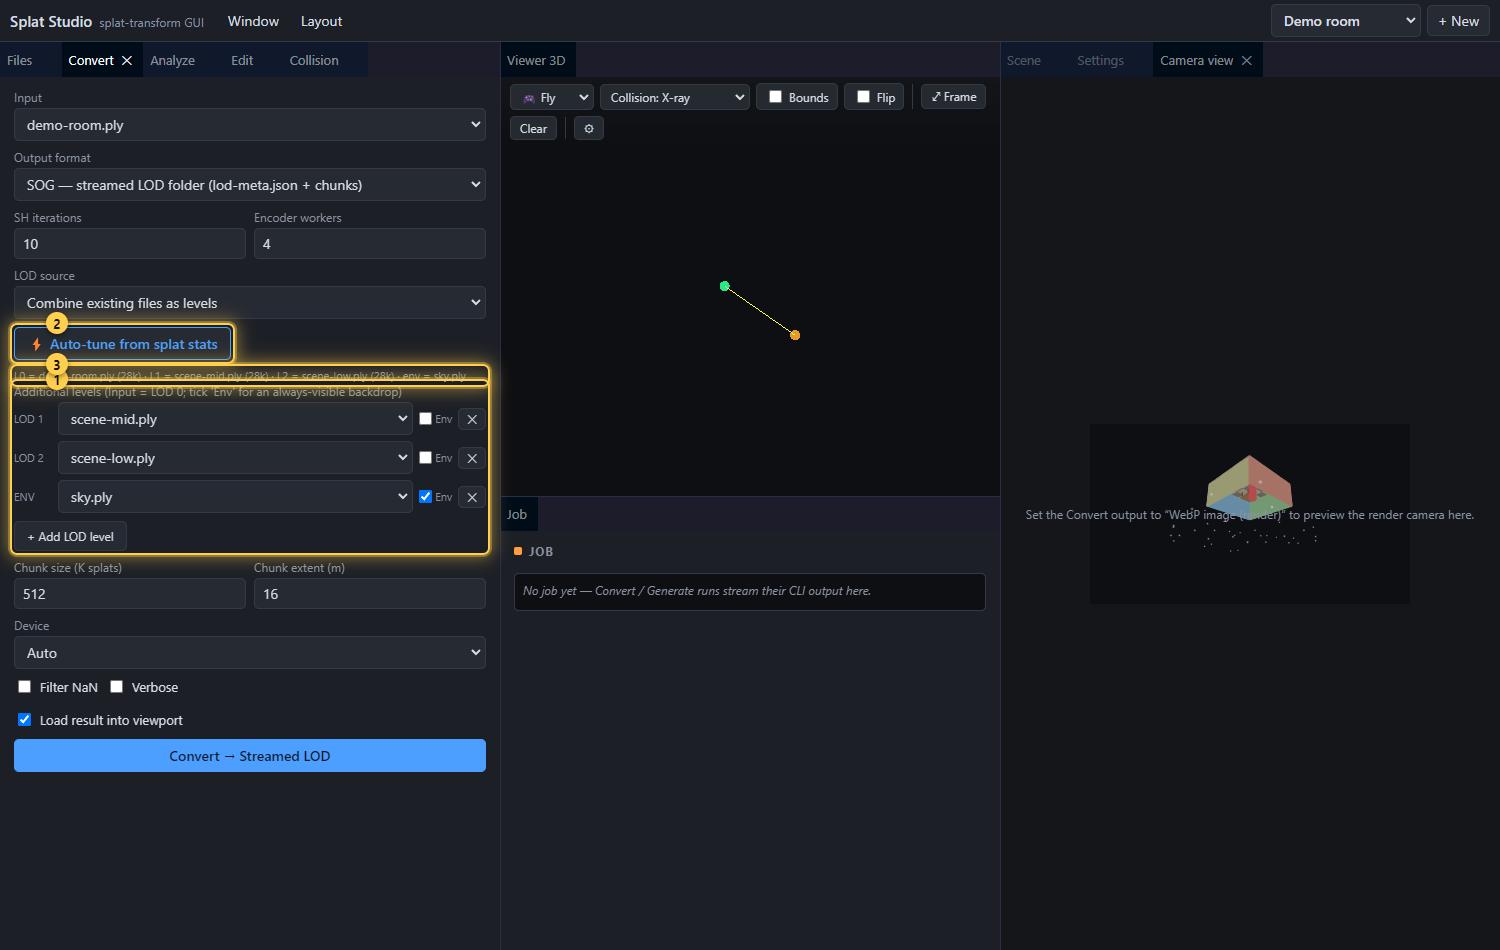
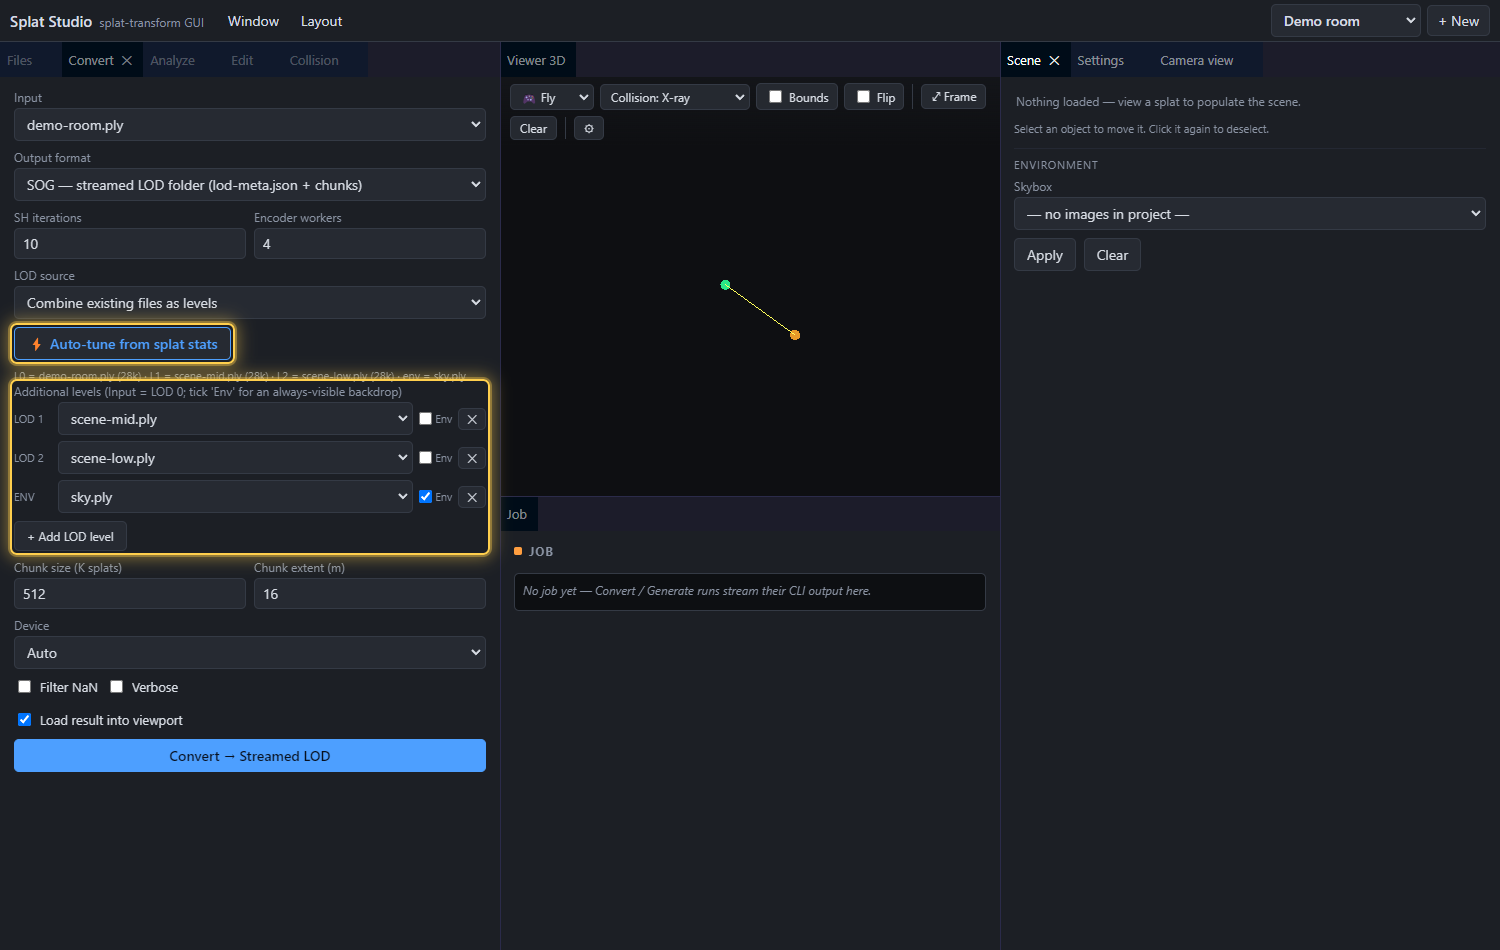
Auto-tune: cleaner screenshot + robustness fixes
- Capture: the lod-autotune scene now shows a clean Scene panel on the right
  (instead of a stale Camera-view render with overlapping hint text) and plain
  glow highlights on the Auto-tune button + the ordered level rows (no overlapping
  numbered badges).
- parseStats returns null on a partial/garbled summary parse, so /api/stats 5xx's
  instead of 200-ing (and caching) a NaN count.
- Auto-tune decimate plan prints "?" instead of "-Infinity" when a source reports
  no finite extents.

diff --git a/client/src/main.ts b/client/src/main.ts
@@ -743,7 +743,8 @@ const autotuneDecimate = async (input: string): Promise<void> => {
     setNum('lod-keep', KEEP);
     setNum('lod-chunk-extent', chunkExtent);
     const ladder = Array.from({ length: levels }, (_, i) => fmtCount(Math.round(s.count * (KEEP / 100) ** i))).join(' → ');
-    showLodPlan(`Decimate ${fmtCount(s.count)} gaussians into ${levels} level${levels > 1 ? 's' : ''} at ${KEEP}% each: ${ladder}. Chunk extent ${chunkExtent} m (scene ≈ ${maxExtent.toFixed(1)} m).`);
+    const sceneM = Number.isFinite(maxExtent) ? maxExtent.toFixed(1) : '?';
+    showLodPlan(`Decimate ${fmtCount(s.count)} gaussians into ${levels} level${levels > 1 ? 's' : ''} at ${KEEP}% each: ${ladder}. Chunk extent ${chunkExtent} m (scene ≈ ${sceneM} m).`);
 };
 
 // combine mode → order the level rows by gaussian count (most detail first) and